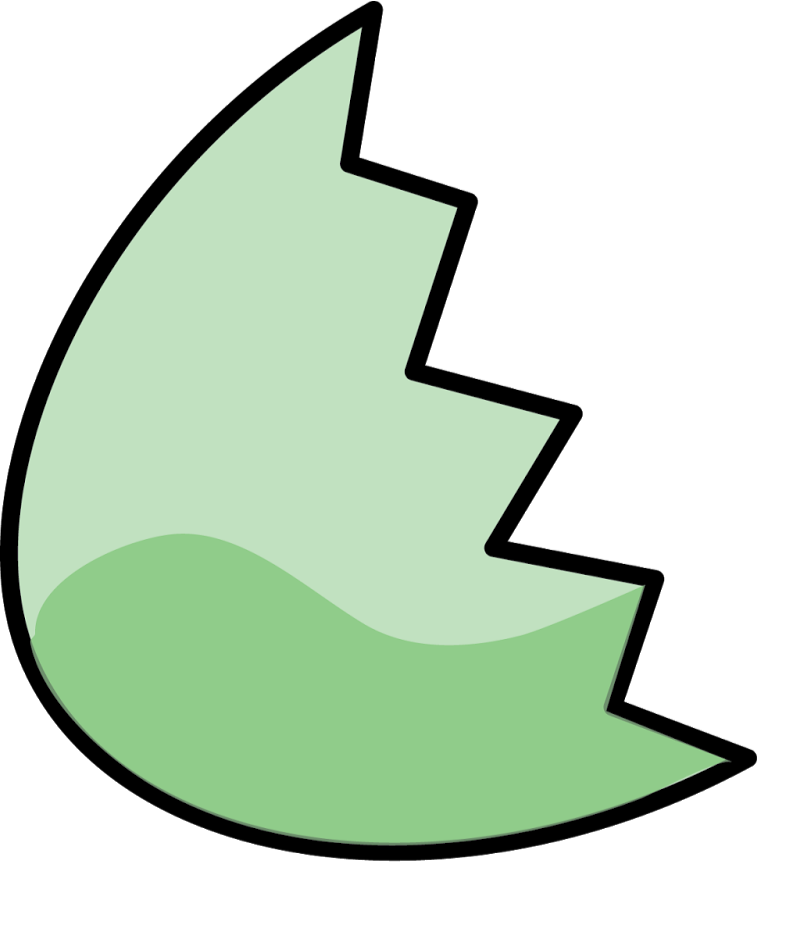
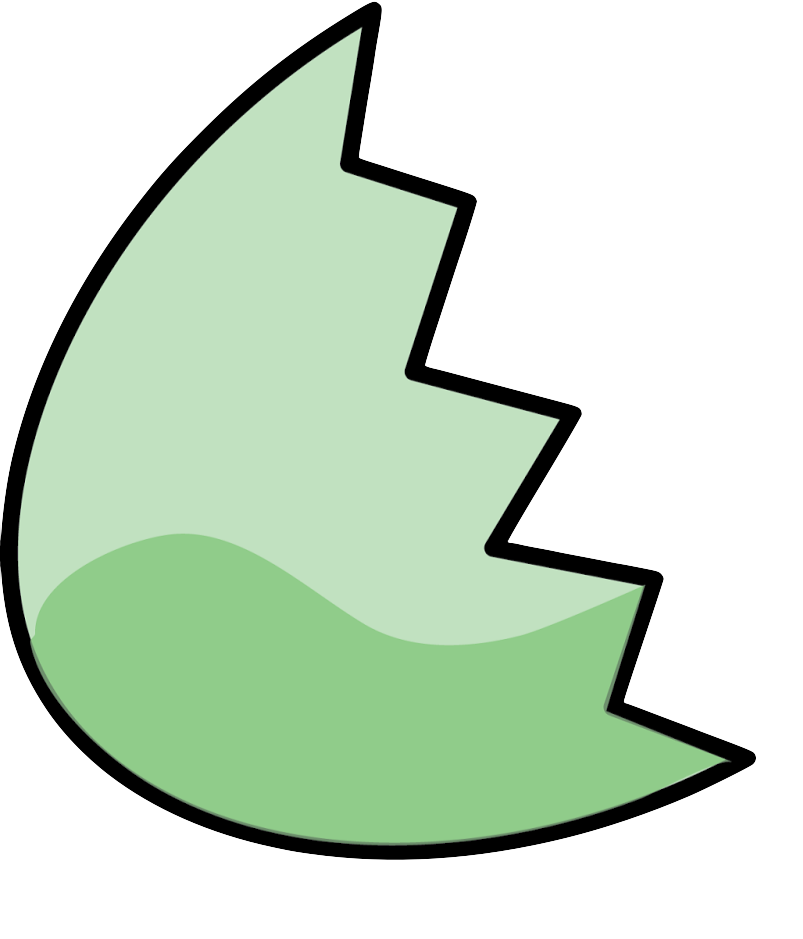
animate egg pieces to rotate apart. add gudetama image. animate gudetama position down.

diff --git a/css/styles.css b/css/styles.css
@@ -1,18 +1,51 @@
+body{
+  margin:0;
 
+}
 #egg-one {
-  width: 21%;
+  width: 240px;
   height: auto;
-  transform: rotate(116deg);
   position: absolute;
-  left: 1%;
-  top: 1%;
+  transform: rotate(24deg);
+  transition: transform 300ms ease-in-out;
+  z-index: 2;
+}
+#egg-two {
+  width: 271px;
+  position: absolute;
+  height: auto;
+  left: 70px;
+  top: 16px;
+  transform: rotate(-60deg);
+  transition: transform 300ms ease-in-out;
+  z-index: 2;
 }
 
-#egg-two {
-  width: 23%;
-  position: absolute;
-  height: auto;
-  transform: rotate(30deg);
-  left: -10px;
-  top: 10%;
+#egg-one, #egg-two{
+  filter:hue-rotate(255deg);
 }
+.container:hover #egg-one {
+  transform: translate(-100px, 140px) rotate(-45deg);
+}
+.container:hover #egg-two {
+  transform: translate(100px, 140px) rotate(45deg);
+}
+.container {
+  position: relative;
+  width: 20%;
+  height: 600px;
+  margin: 170px auto;
+  transform: rotate(180deg);
+}
+
+#gud-one{
+  width: 200px;
+  z-index:1;
+  transform: translate(50px, 50px) rotate(180deg);
+  transition: transform 300ms ease-in-out;
+}
+.container:hover #gud-one {
+  transform: translate(0px, -100px) rotate(130deg);
+}
+
+  /*background-color: #f5aa3b;*/

diff --git a/index.html b/index.html
@@ -2,13 +2,15 @@
 <html>
   <head>
     <link rel="stylesheet" href="css/styles.css">
-    <title>Egg</title>
+    <title>Gudetama!!!#U+1F423</title>
   </head>
   <body>
     <div class="container">
       <img id="egg-one" src="img/egg1.png" alt="Egg shell part 1">
-      <br>
       <img id="egg-two" src="img/egg2.png" alt="Egg shell part 2">
+      <div class="gud">
+        <img id="gud-one" src="img/gudetama2.png" alt="egg">
+      </div>
     </div>
   </body>
 </html>
